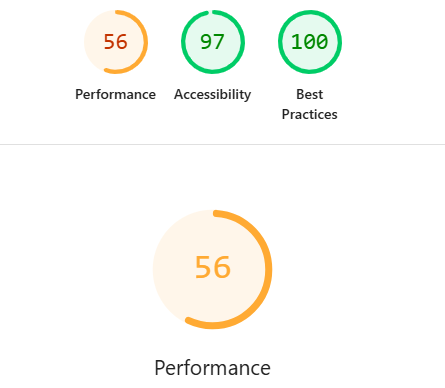
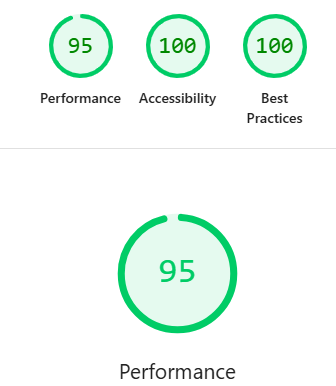
Improve alt attributes to improve accessibility performance on lighthouse

diff --git a/about.html b/about.html
@@ -82,7 +82,7 @@
           <img
             src="assets/images/cheffs.webp"
             class="img-fluid rounded"
-            alt="Restaurant"
+            alt="Chefs preparing food in the Halal Bites kitchen"
             loading="lazy"
           />
         </div>
@@ -223,7 +223,7 @@
             <img
               src="assets/images/staff5.avif"
               class="card-img-top"
-              alt="Staff Member 1"
+              alt="hef Ahmed Rahman, founder and head chef"
               loading="lazy"
             />
             <div class="card-body">
@@ -243,7 +243,7 @@
             <img
               src="assets/images/staff7.avif"
               class="card-img-top"
-              alt="Staff Member 2"
+              alt="Fatima Hassan, operations manager"
               loading="lazy"
             />
             <div class="card-body">
@@ -263,7 +263,7 @@
             <img
               src="assets/images/staff8.avif"
               class="card-img-top"
-              alt="Omar Khalil"
+              alt="Omar Khalil, sous cheff"
               loading="lazy"
             />
             <div class="card-body">